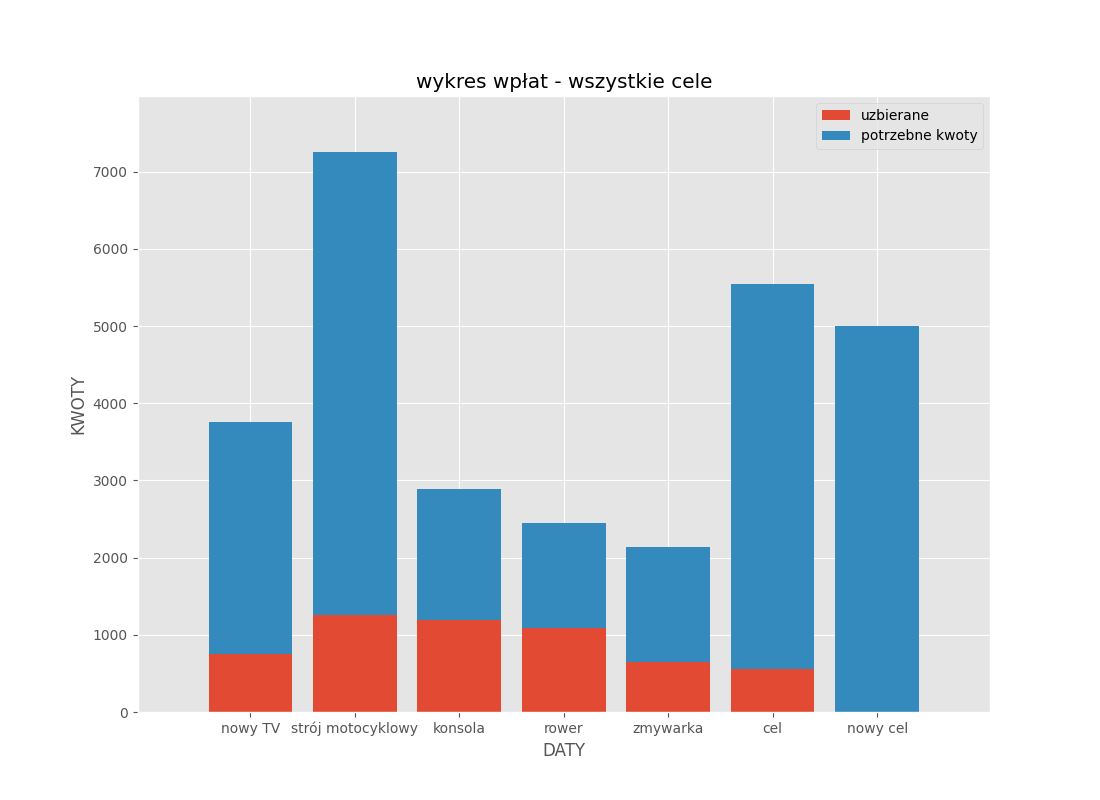
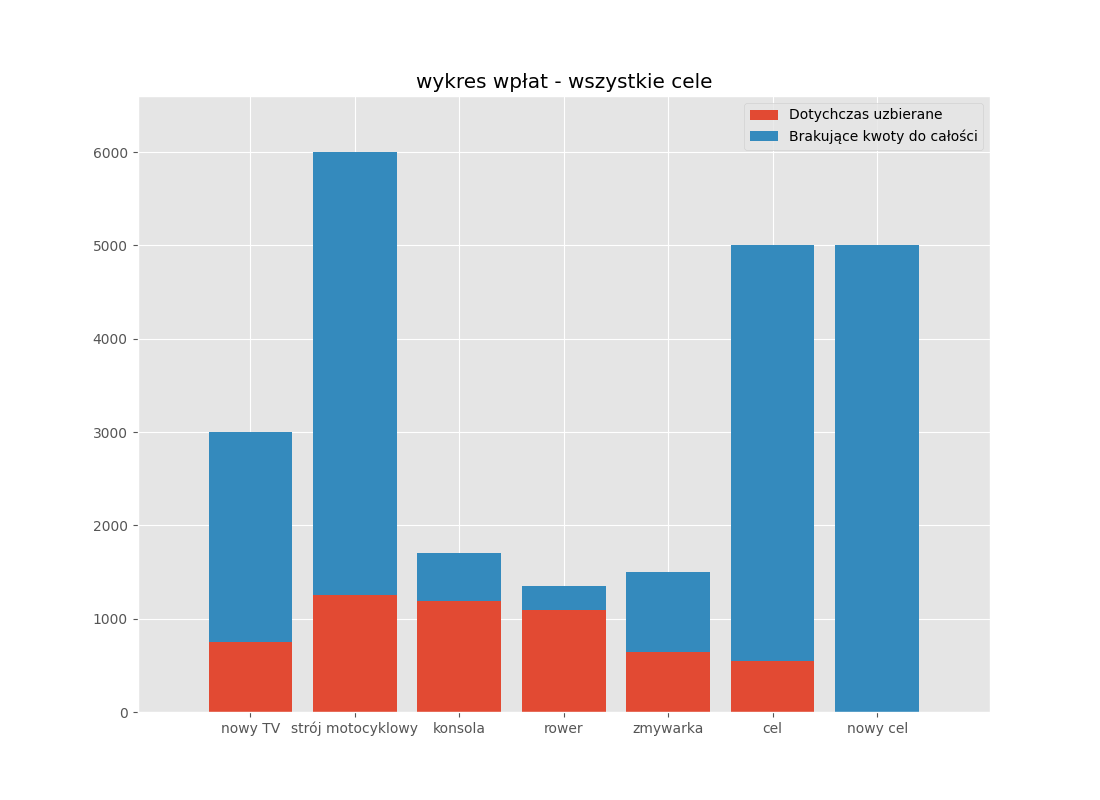
poprawki

diff --git a/budget_app/templates/income.html b/budget_app/templates/income.html
@@ -5,19 +5,19 @@
 
     <table border="1">
         <tr>
-        <th>Nazwa wpływu</th>
-        <th>Kwota przychodu</th>
-        <th>Opis</th>
-        <th> Modyfikacja</th>
-        <th> Usuwanie</th>
+        <th> &nbsp; Nazwa wpływu&nbsp; </th>
+        <th> &nbsp;Kwota przychodu&nbsp; </th>
+        <th> Opis </th>
+        <th> &nbsp;Modyfikacja&nbsp; </th>
+        <th> &nbsp;Usuwanie&nbsp; </th>
         </tr>
     {% for element in all_income %}
         <tr>
         <td>{{ element.name_of_income }}</td>
         <td>{{ element.value_of_income }}</td>
         <td>{{ element.income_description }}</td>
-        <td><a href="{% url 'modify-income' element.id %}"> Modyfikuj!</a></td>
-        <td><a href="{% url 'delete-income' element.id %}"> Usuń</a></td>
+        <td><a href="{% url 'modify-income' element.id %}"> Modyfikuj! </a></td>
+        <td><a href="{% url 'delete-income' element.id %}"> Usuń </a></td>
         </tr>
     {% endfor %}
     </table>
@@ -33,16 +33,17 @@ Jeśli chcesz uwzględnić dodatkową kwotę:
 <input type="submit" value="oblicz">
 </form>
     <br>{% if sum_of %}Suma przychodu, z uwzględnieniem dodatkowej kwoty: {{ sum_of }}{% endif %}
-    <br><br>
+    <br>
     <img src="{% static "wykres-income-for-spending.png" %}" alt="Not found" ><br><br>
+
     <form action="" method="post">
     {% csrf_token %}
                    <fieldset>
            <legend>Dodaj nowy przychód</legend>
 
-    Nazwa dla dochodu <input type="text" name="name_of_income" /><br>
-    Kwota dochodu <input type="number" step="any" min="1" name="value_of_income" /><br>
-    Opis dochodu <input type="text" name="income_description" /><br>
+    Nazwa dla przychodu <input type="text" name="name_of_income" /><br>
+    Kwota wpływu <input type="number" step="any" min="1" name="value_of_income" /><br>
+    Opcjonalny opis <input type="text" name="income_description" /><br>
 
         <input type="submit" value="wyślij">
                        </fieldset>

diff --git a/budget_app/templates/piggy-banks.html b/budget_app/templates/piggy-banks.html
@@ -1,29 +1,23 @@
 {% extends "base.html" %}
 
 {% block content %}
-   <br><br>
-<p style="text-align: center">
-    <a href="{% url 'saving-add' %}">&nbsp;Dodaj nowy cel</a>
-    <br>
-<p style="text-align: center">
-    <a href="{% url 'saving-goals' %}">&nbsp;Zobacz dotychczasowe cele -></a>
+   <br><br><br>
+    <ul>
+        <li><a href="{% url 'saving-add' %}">Dodaj nowy cel</a></li>
+        <br><br>
+        <li><a href="{% url 'saving-goals' %}">Zobacz dotychczasowe cele</a></li>
+        <br><br>
+        <li><a href="{% url 'saving-collected' %}">Pilnuj realizacji celów - WPŁATY</a></li>
+        <br><br>
+        <li><a href="{% url 'saving-mistake' %}">Pomyłka w twojej wpłacie na określony cel? Zmień to!</a></li>
+        <br><br>
+        <li><a href="{% url 'charts' %}">Wykresy osiągania celów</a></li>
+        <br><br><br><br><br><br>
+        <li><a href="{% url 'saving-time' %}">Oblicz: ile czasu muszę odkładać, aby coś mieć?</a></li>
+        <br><br>
+        <li><a href="{% url 'saving-amount' %}">Oblicz: jaką kwotę powinno się odkładać,
+        żeby mieć coś w określonym czasie.</a></li>
+    </ul>
     <br><br>
-<a href="{% url 'saving-collected' %}">&nbsp;Pilnuj realizacji celów</a>
-    <br><br>
-<a href="{% url 'saving-mistake' %}">&nbsp;Pomyłka w twojej wpłacie na określony cel? Zmień to!</a>
-    <br><br>
-<a href="{% url 'charts' %}">&nbsp;Wykresy</a>
-<br><br><br><br>
-<a href="{% url 'saving-time' %}">&nbsp;Oblicz: ile czasu muszę odkładać, aby coś mieć?</a>
-<br><br>
-<a href="{% url 'saving-amount' %}">&nbsp;Oblicz: jaką kwotę powinno się odkładać,
-                                            żeby mieć coś w określonym czasie.</a>
-</p>
-<br>
-
-
-
-
-    <br>
 
 {% endblock %}

diff --git a/budget_app/templates/budget.html b/budget_app/templates/budget.html
@@ -2,7 +2,7 @@
 {% load static %}
 {% block content %}
 
-    <a href="{% url 'months-budget' %}"><strong>&nbsp;Dotychczasowe budżety -></strong></a><br>
+    <a href="{% url 'months-budget' %}"><strong>&nbsp;Dotychczasowe zestawienia wydatków miesięcznych -></strong></a><br>
     <br><br>
     Aktualne pozycje w Twoim budżecie:<br>
     <small>* Jeśli coś już jest nieaktualne - wyrzuć pozycję!</small>
@@ -17,8 +17,8 @@
         <th>Co miesiąc?</th>
         <th>Opis</th>
         <th>Wliczyć w koszt miesiąca?</th>
-        <th>Modyfikacja</th>
-            <th>Usuwanie</th>
+        <th>&nbsp;Modyfikacja&nbsp;</th>
+        <th>&nbsp;Usuwanie&nbsp;</th>
         </tr>
     {% for element in pozycje %}
         <tr>

diff --git a/budget_app/templates/mistake.html b/budget_app/templates/mistake.html
@@ -14,7 +14,7 @@
         </select>
         <br><br>
         <strong>Aby poprawnie naprawić pomyłkę podaj kwotę jaką błędnie wpisano:</strong><br>
-            <input type="number"  name="mistake_value" placeholder="ostatnio wpisano: {{ piggy_mist_info }}"><br>
+            <input type="number"  name="mistake_value" placeholder="ostatnia wartość: {{ piggy_mist_info }}"><br>
         <small>Kwota zostanie odjęta od twoich uzbieranych środków oraz zostanie usunięty błędny wpis.</small>
             <br><br><br>
             <p style="color: darkred"><strong>A teraz podaj kwotę poprawną:</strong></p>

diff --git a/budget_app/templates/credit-mistake.html b/budget_app/templates/credit-mistake.html
@@ -18,7 +18,7 @@
     <br><br>
 
     <strong>Aby poprawnie naprawić pomyłkę podaj kwotę jaką błędnie wpisano:</strong><br>
-           <input type="number" step="any" name="mistake_value" placeholder="ostatnio wpisane: {{ cred_mist_info }}"><br>
+           <input type="number" step="any" name="mistake_value" placeholder="ostatnia wartość: {{ cred_mist_info }}"><br>
     <small>Kwota zostanie odjęta od twoich uzbieranych środków oraz zostanie usunięty błędny wpis.</small>
            <br><br><br>
            <p style="color: darkred"><strong>A teraz podaj kwotę poprawną:</strong></p>

diff --git a/budget_app/templates/budget-months.html b/budget_app/templates/budget-months.html
@@ -6,10 +6,10 @@
     <table border="1">
         <tr>
         <th>Nazwa</th>
-        <th>Kwota</th>
+        <th>&nbsp;Kwota&nbsp;</th>
         <th>Dodatkowy opis</th>
-        <th>Modyfikuj</th>
-        <th>Usuń</th>
+        <th>&nbsp;Modyfikuj&nbsp;</th>
+        <th>&nbsp;Usuń&nbsp;</th>
         </tr>
     {% for element in this_months_budget %}
         <tr>

diff --git a/budget_app/templates/saving-goals.html b/budget_app/templates/saving-goals.html
@@ -8,8 +8,8 @@
         <th>Nazwa celu</th>
         <th>Potrzebna kwota</th>
         <th>Opis</th>
-        <th> Modyfikacja</th>
-        <th> Usuwanie</th>
+        <th> &nbsp;Modyfikacja&nbsp;</th>
+        <th> &nbsp;Usuwanie&nbsp;</th>
         </tr>
     {% for element in all_piggy_banks %}
         <tr>

diff --git a/budget_app/templates/stock.html b/budget_app/templates/stock.html
@@ -11,8 +11,8 @@
 {#        <th>Cena</th>#}
         <th>Dywidenda?</th>
         <th>Rodzaj rynku</th>
-        <th>Modyfikacja</th>
-        <th>Usuwanie</th>
+        <th>&nbsp;Modyfikacja&nbsp;</th>
+        <th>&nbsp;Usuwanie&nbsp;</th>
         </tr>
          {% for element in ctx %}
         <tr>

diff --git a/budget_app/templates/stock2.html b/budget_app/templates/stock2.html
@@ -11,8 +11,8 @@
 {#        <th>Cena</th>#}
         <th>Dywidenda?</th>
         <th>Rodzaj rynku</th>
-        <th>Modyfikacja</th>
-        <th>Usuwanie</th>
+        <th>&nbsp;Modyfikacja&nbsp;</th>
+        <th>&nbsp;Usuwanie&nbsp;</th>
         </tr>
          {% for element in ctx %}
         <tr>

diff --git a/static/style.css b/static/style.css
@@ -28,7 +28,7 @@ a, a:link, a:visited {
 .sidenav a {
   padding: 6px 8px 6px 16px;
   /*text-decoration: none;*/
-  font-size: 22px;
+  font-size: 24px;
   color: cornflowerblue;
   display: block;
   background-color: #111;

diff --git a/budget_app/views.py b/budget_app/views.py
@@ -59,8 +59,8 @@ def kalkul():
 def wykres_month():
     plt.figure(1)
     plt.figure(figsize=(10, 7))
-    plt.title('wykres z ostatnich 12 miesięcy')
-    plt.ylabel('kwoty')
+    plt.title('wydatki z ostatnich 12 miesięcy')
+    plt.ylabel('zapisane miesięczne kwoty')
     queryset = MonthsBudget.objects.all().order_by('-month_date')
     xmonth=[]
     ymonth=[]
@@ -75,7 +75,7 @@ def wykres_month():
     plt.style.use('ggplot')
     plt.bar(xmonth1,ymonth1)
     # plt.grid(True)
-    plt.tick_params(axis='x', rotation=320)
+    plt.tick_params(axis='x', rotation=330)
     # plt.show()
     savefig('static/wykres.png')
 
@@ -305,7 +305,7 @@ def wykres_innego_typu():
     plt.legend(bbox_to_anchor=(0.95, 1), loc='upper left', borderaxespad=0.)#boczna legenda
     plt.title('wykres wpłat dla celu')
     plt.xlabel('DATY')
-    plt.ylabel('kwoty')
+    plt.ylabel('KWOTY')
     plt.grid(True)
     plt.margins(0.1)
     # plt.subplot(x, y)
@@ -400,24 +400,22 @@ def wykres_credit2():
 def wykres_piggybanks_all():
     pozycje = PiggyBanks.objects.all()
     names_of = []
-    goal_of = []
     already_c = []
+    piggybanks_minus = []
     for element in pozycje:
         names_of.append(element.money_for)
-        goal_of.append(element.m_min)
         take = AlreadyCollected.objects.filter(paymentday__payment_piggybanks_id=element.id).order_by('paymentday__date_of').last()
+        piggybanks_minus.append(element.m_min - take.collected)
         already_c.append(take.collected)
 
     plt.figure(11)
     plt.figure(figsize=(11, 8))
     plt.style.use('ggplot')
     plt.title('wykres wpłat - wszystkie cele')
-    plt.xlabel('DATY')
-    plt.ylabel('KWOTY')
     plt.grid(True)
     plt.margins(0.1)
-    plt.bar(names_of, already_c, label='uzbierane')
-    plt.bar(names_of, goal_of, label='potrzebne kwoty', bottom=already_c)
+    plt.bar(names_of, already_c, label='Dotychczas uzbierane')
+    plt.bar(names_of, piggybanks_minus, label='Brakujące kwoty do całości', bottom=already_c)
     plt.legend()
     # plt.tick_params(axis='x', rotation=290)
     savefig('static/wykres-inny-pball.png')
@@ -456,7 +454,6 @@ def wykres_income_for_spending():
     ymonth = []
     for el in queryset:
         xmonth.append(el.chosen_name_of_month)
-        # x.append(el.month_date)
         ymonth.append(el.month_cost)
     xmonth1 = xmonth[0:12]
     ymonth1 = ymonth[0:12]
@@ -466,17 +463,12 @@ def wykres_income_for_spending():
     for e in ymonth1:
         ymonth2income_vs_spending.append(calc - e)
 
-    #calc = kwota stala jako linia
     plt.figure(13)
-    # plt.margins(0.2)
     plt.figure(figsize=(12, 7.5))
-    # plt.title('wykres wpływów i stałych wydatków', fontdict={'fontname': 'monospace', 'fontsize': 14})
     plt.bar(xmonth1, ymonth2income_vs_spending, color='#00FF00', label='kwoty po odjęciu miesięcznych wydatków')
     plt.bar(xmonth1, ymonth1, label='zapisane miesięczne koszty', color='#008080', bottom=ymonth2income_vs_spending)
-    # plt.legend()
     plt.legend(bbox_to_anchor=(0., 1.02, 1., .102), loc='lower left',
                ncol=2, mode="expand", borderaxespad=0.)
-    # plt.legend(bbox_to_anchor=(0.95, 1), loc='upper left', borderaxespad=0.)
     plt.tick_params(axis='x', rotation=340)
     savefig('static/wykres-income-for-spending.png')
 
@@ -486,7 +478,6 @@ class IndexView(View):
         wykres_income_for_spending()
         # wykres_piggybanks_all()
         return render(request, 'base.html')
-
 
 
 class IncomeView(View):

diff --git a/budget_app/models.py b/budget_app/models.py
@@ -92,9 +92,9 @@ class RepaymentDay(models.Model):
 
 
 class Income(models.Model):
-    name_of_income = models.CharField(max_length=128, verbose_name='Nazwa dla dochodu')
-    value_of_income = models.FloatField(verbose_name='Kwota dochodu')
-    income_description = models.TextField(null=True, verbose_name='Opis dochodu')
+    name_of_income = models.CharField(max_length=128, verbose_name='Nazwa dla przychodu')
+    value_of_income = models.FloatField(verbose_name='Kwota wpływu')
+    income_description = models.TextField(null=True, verbose_name='Opcjonalny opis')
 
     def __str__(self):
         return self.name_of_income
